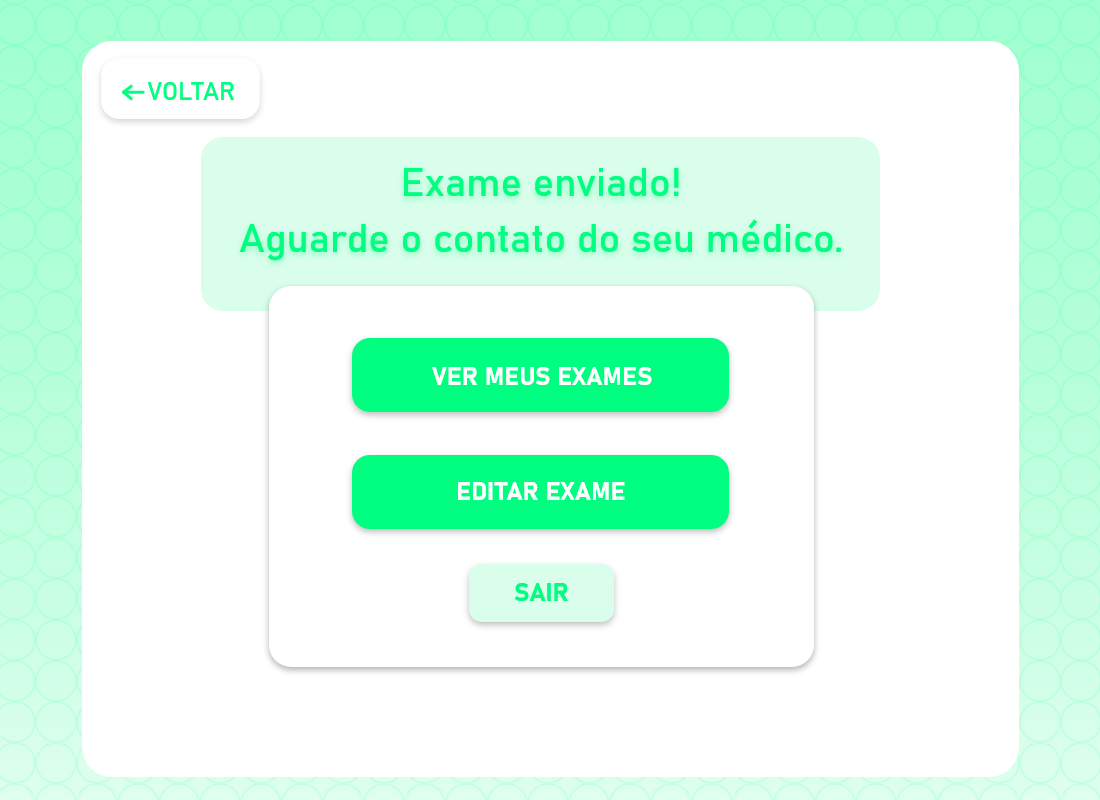
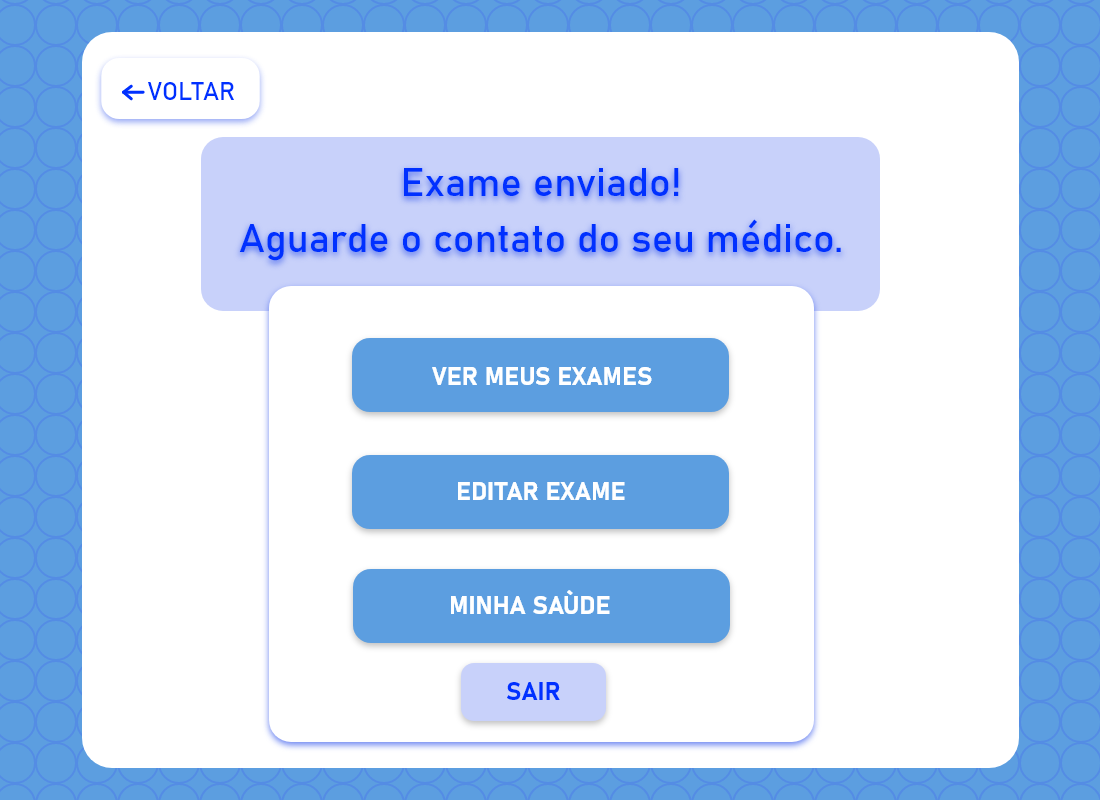
Modificação das imagens e CSS

diff --git a/relatorio_pacientes.html b/relatorio_pacientes.html
@@ -1,1 +1,1 @@
-<html lang = "pt-br"><head><meta charset = "UTF-8"><title> Formulario </title><link rel="stylesheet" type="text/css" href="style.css"/></head><body><table><caption> Pacientes cadastrados </caption> <tr><td class="head"> ID </td> <td class="head"> Email </td> <td class="head"> Nome </td> <td class="head"> CPF </td><tr><tr><td> 12345 </td><td> fulano@gmail.com </td> <td> Augusto Moura </td> <td> 123.123.123-12 </td><tr><td> 13252 </td><td> ciclano@gmail.com </td> <td> Augusto Moura </td> <td> 123.123.123-12 </td><tr><td> 10239 </td><td> jaja@gmail.com </td> <td> Augusto Moura </td> <td> 123.123.123-12 </td><tr><td> 80461 </td><td> cicla@gmail.com </td> <td> Augusto Moura </td> <td> 123.123.123-12 </td><tr><td> 37132 </td><td> augusto@gmail.com </td> <td> Augusto Moura </td> <td> 123.123.123-12 </td><tr><td> 50036 </td><td> aaa@gmail.com </td> <td> Augusto Moura </td> <td> 123.123.123-12 </td><tr><td> 82883 </td><td> vtr@gmail.com </td> <td> Augusto Moura </td> <td> 123.123.123-12 </td><tr><td> 57167 </td><td> a@gmail.com </td> <td> Augusto Moura </td> <td> 123.123.123-12 </td><tr><td> 52217 </td><td> joana@gmail.com </td> <td> Augusto Moura </td> <td> 123.123.123-12 </td><tr><td> 31234 </td><td> a </td> <td> Augusto Moura </td> <td> 123.123.123-12 </td><tr><td> 07385 </td><td> beltrano@gmail.com </td> <td> Augusto Moura </td> <td> 123.123.123-12 </td><tr><td> 83894 </td><td> teste@gmail.com </td> <td> Augusto Moura </td> <td> 123.123.123-12 </td><tr><td> 69660 </td><td> teste123@gmail.com </td> <td> Augusto Moura </td> <td> 123.123.123-12 </td><tr><td> 07695 </td><td> augusto123@gmail.com </td> <td> Augusto Moura </td> <td> 123.123.123-12 </td><tr><td> 95711 </td><td> aythana@gmail.com </td> <td> Aythana </td> <td> 123.123.123-12 </td><tr><td> 59410 </td><td> vitormanuel@gmail.com </td> <td> Vitor Manuel </td> <td> 982.123.435-98 </td><tr><td> 80589 </td><td> fernandoalvarenga@gmail.com </td> <td> Fernando Alvarenga </td> <td> 157.675.254-69 </td></table></body></html>
+<html lang = "pt-br"><head><meta charset = "UTF-8"><title> Formulario </title><link rel="stylesheet" type="text/css" href="style.css"/></head><body><table><caption> Pacientes cadastrados </caption> <tr><td class="head"> ID </td> <td class="head"> Email </td> <td class="head"> Nome </td> <td class="head"> CPF </td><tr><tr><td> 12345 </td><td> fulano@gmail.com </td> <td> Augusto Moura </td> <td> 123.123.123-12 </td><tr><td> 13252 </td><td> ciclano@gmail.com </td> <td> Augusto Moura </td> <td> 123.123.123-12 </td><tr><td> 10239 </td><td> jaja@gmail.com </td> <td> Augusto Moura </td> <td> 123.123.123-12 </td><tr><td> 80461 </td><td> cicla@gmail.com </td> <td> Augusto Moura </td> <td> 123.123.123-12 </td><tr><td> 37132 </td><td> augusto@gmail.com </td> <td> Augusto Moura </td> <td> 123.123.123-12 </td><tr><td> 50036 </td><td> aaa@gmail.com </td> <td> Augusto Moura </td> <td> 123.123.123-12 </td><tr><td> 82883 </td><td> vtr@gmail.com </td> <td> Augusto Moura </td> <td> 123.123.123-12 </td><tr><td> 57167 </td><td> a@gmail.com </td> <td> Augusto Moura </td> <td> 123.123.123-12 </td><tr><td> 52217 </td><td> joana@gmail.com </td> <td> Augusto Moura </td> <td> 123.123.123-12 </td><tr><td> 31234 </td><td> a </td> <td> Augusto Moura </td> <td> 123.123.123-12 </td><tr><td> 07385 </td><td> beltrano@gmail.com </td> <td> Augusto Moura </td> <td> 123.123.123-12 </td><tr><td> 83894 </td><td> teste@gmail.com </td> <td> Augusto Moura </td> <td> 123.123.123-12 </td><tr><td> 69660 </td><td> teste123@gmail.com </td> <td> Augusto Moura </td> <td> 123.123.123-12 </td><tr><td> 07695 </td><td> augusto123@gmail.com </td> <td> Augusto Moura </td> <td> 123.123.123-12 </td><tr><td> 95711 </td><td> aythana@gmail.com </td> <td> Aythana </td> <td> 123.123.123-12 </td><tr><td> 59410 </td><td> vitormanuel@gmail.com </td> <td> Vitor Manuel </td> <td> 982.123.435-98 </td><tr><td> 80589 </td><td> fernandoalvarenga@gmail.com </td> <td> Fernando Alvarenga </td> <td> 157.675.254-69 </td><tr><td> 11764 </td><td> awd@gmail.com </td> <td> 123 </td> <td> 022 </td><tr><td> 57811 </td><td> awjd@gmail.com </td> <td> awd </td> <td> 123 </td></table></body></html>

diff --git a/relatorio_paciente_desejado.html b/relatorio_paciente_desejado.html
@@ -1,1 +1,1 @@
-<html lang = "pt-br"><head><meta charset = "UTF-8"><title> Formulario </title><link rel="stylesheet" type="text/css" href="style.css"/></head><body><table><caption> Exames de 12345</caption> <tr><td class="head"> ID </td> <td class="head"> Email </td> <td class="head"> Hemacias </td> <td class="head"> Hemoglobina </td> <td class="head"> Hematocrito </td> <td class="head"> VCM </td> <td class="head"> HCM </td> <td class="head"> CHCM </td> <td class="head"> RDW </td> <td class="head"> Leucocitos </td> <td class="head"> Basofilos </td> <td class="head"> Eosinofilos </td> <td class="head"> Mielocitos </td> <td class="head"> Metamielocitos </td> <td class="head"> Bastoes </td> <td class="head"> Segmentados </td> <td class="head"> Linfocitos </td> <td class="head"> Linfocitos atipicos </td> <td class="head"> Monocitos </td> <td class="head"> VPM </td> <td class="head"> Plaquetocrito </td> <td class="head"> PDW </td> <td class="head"> HDL </td> <td class="head"> LDL </td> <td class="head"> Data </td></tr></table></body></html>
+<html lang = "pt-br"><head><meta charset = "UTF-8"><title> Formulario </title><link rel="stylesheet" type="text/css" href="style.css"/></head><body><table><caption> Exames de </caption> <tr><td class="head"> ID </td> <td class="head"> Email </td> <td class="head"> Hemacias </td> <td class="head"> Hemoglobina </td> <td class="head"> Hematocrito </td> <td class="head"> VCM </td> <td class="head"> HCM </td> <td class="head"> CHCM </td> <td class="head"> RDW </td> <td class="head"> Leucocitos </td> <td class="head"> Basofilos </td> <td class="head"> Eosinofilos </td> <td class="head"> Mielocitos </td> <td class="head"> Metamielocitos </td> <td class="head"> Bastoes </td> <td class="head"> Segmentados </td> <td class="head"> Linfocitos </td> <td class="head"> Linfocitos atipicos </td> <td class="head"> Monocitos </td> <td class="head"> VPM </td> <td class="head"> Plaquetocrito </td> <td class="head"> PDW </td> <td class="head"> HDL </td> <td class="head"> LDL </td> <td class="head"> Data </td></tr></table></body></html>

diff --git a/style.css b/style.css
@@ -15,7 +15,7 @@
         
         /* Estilo para a primeira linha*/
         td.head {
-            background-color: #00ff80;
+            background-color: #4363ED;
             font-weight: bold;
         }
 
@@ -23,13 +23,13 @@
         td {
             padding: 10px;
 
-            background-color: #dafeec;
+            background-color: #c3ceff;
             font-weight: 500;
         }
 
         /* Estilo quando o cursor está sobre uma célula */
         td:hover {
-            background-color: #00ff80;
+            background-color: #4363ED;
             color: white;
         }
 

diff --git a/main.py b/main.py
@@ -6,7 +6,7 @@ from functions import *
 
 fundo_tela1 = gf.Image(gf.Point(550,400),"Login.png")
 fundo_tela2 = gf.Image(gf.Point(550,400),"Cadastro.png")
-fundo_tela3 = gf.Image(gf.Point(550,400),"Paciente_Exame.png")
+fundo_tela3 = gf.Image(gf.Point(550,400),"Paciente_Editar_Exame.png")
 fundo_tela4 = gf.Image(gf.Point(550,400),"Medico_Pesquisar.png")
 fundo_tela5 = gf.Image(gf.Point(550,400),"Cadastro.png")
 fundo_tela6 = gf.Image(gf.Point(550,400),"Paciente_Editar.png")
